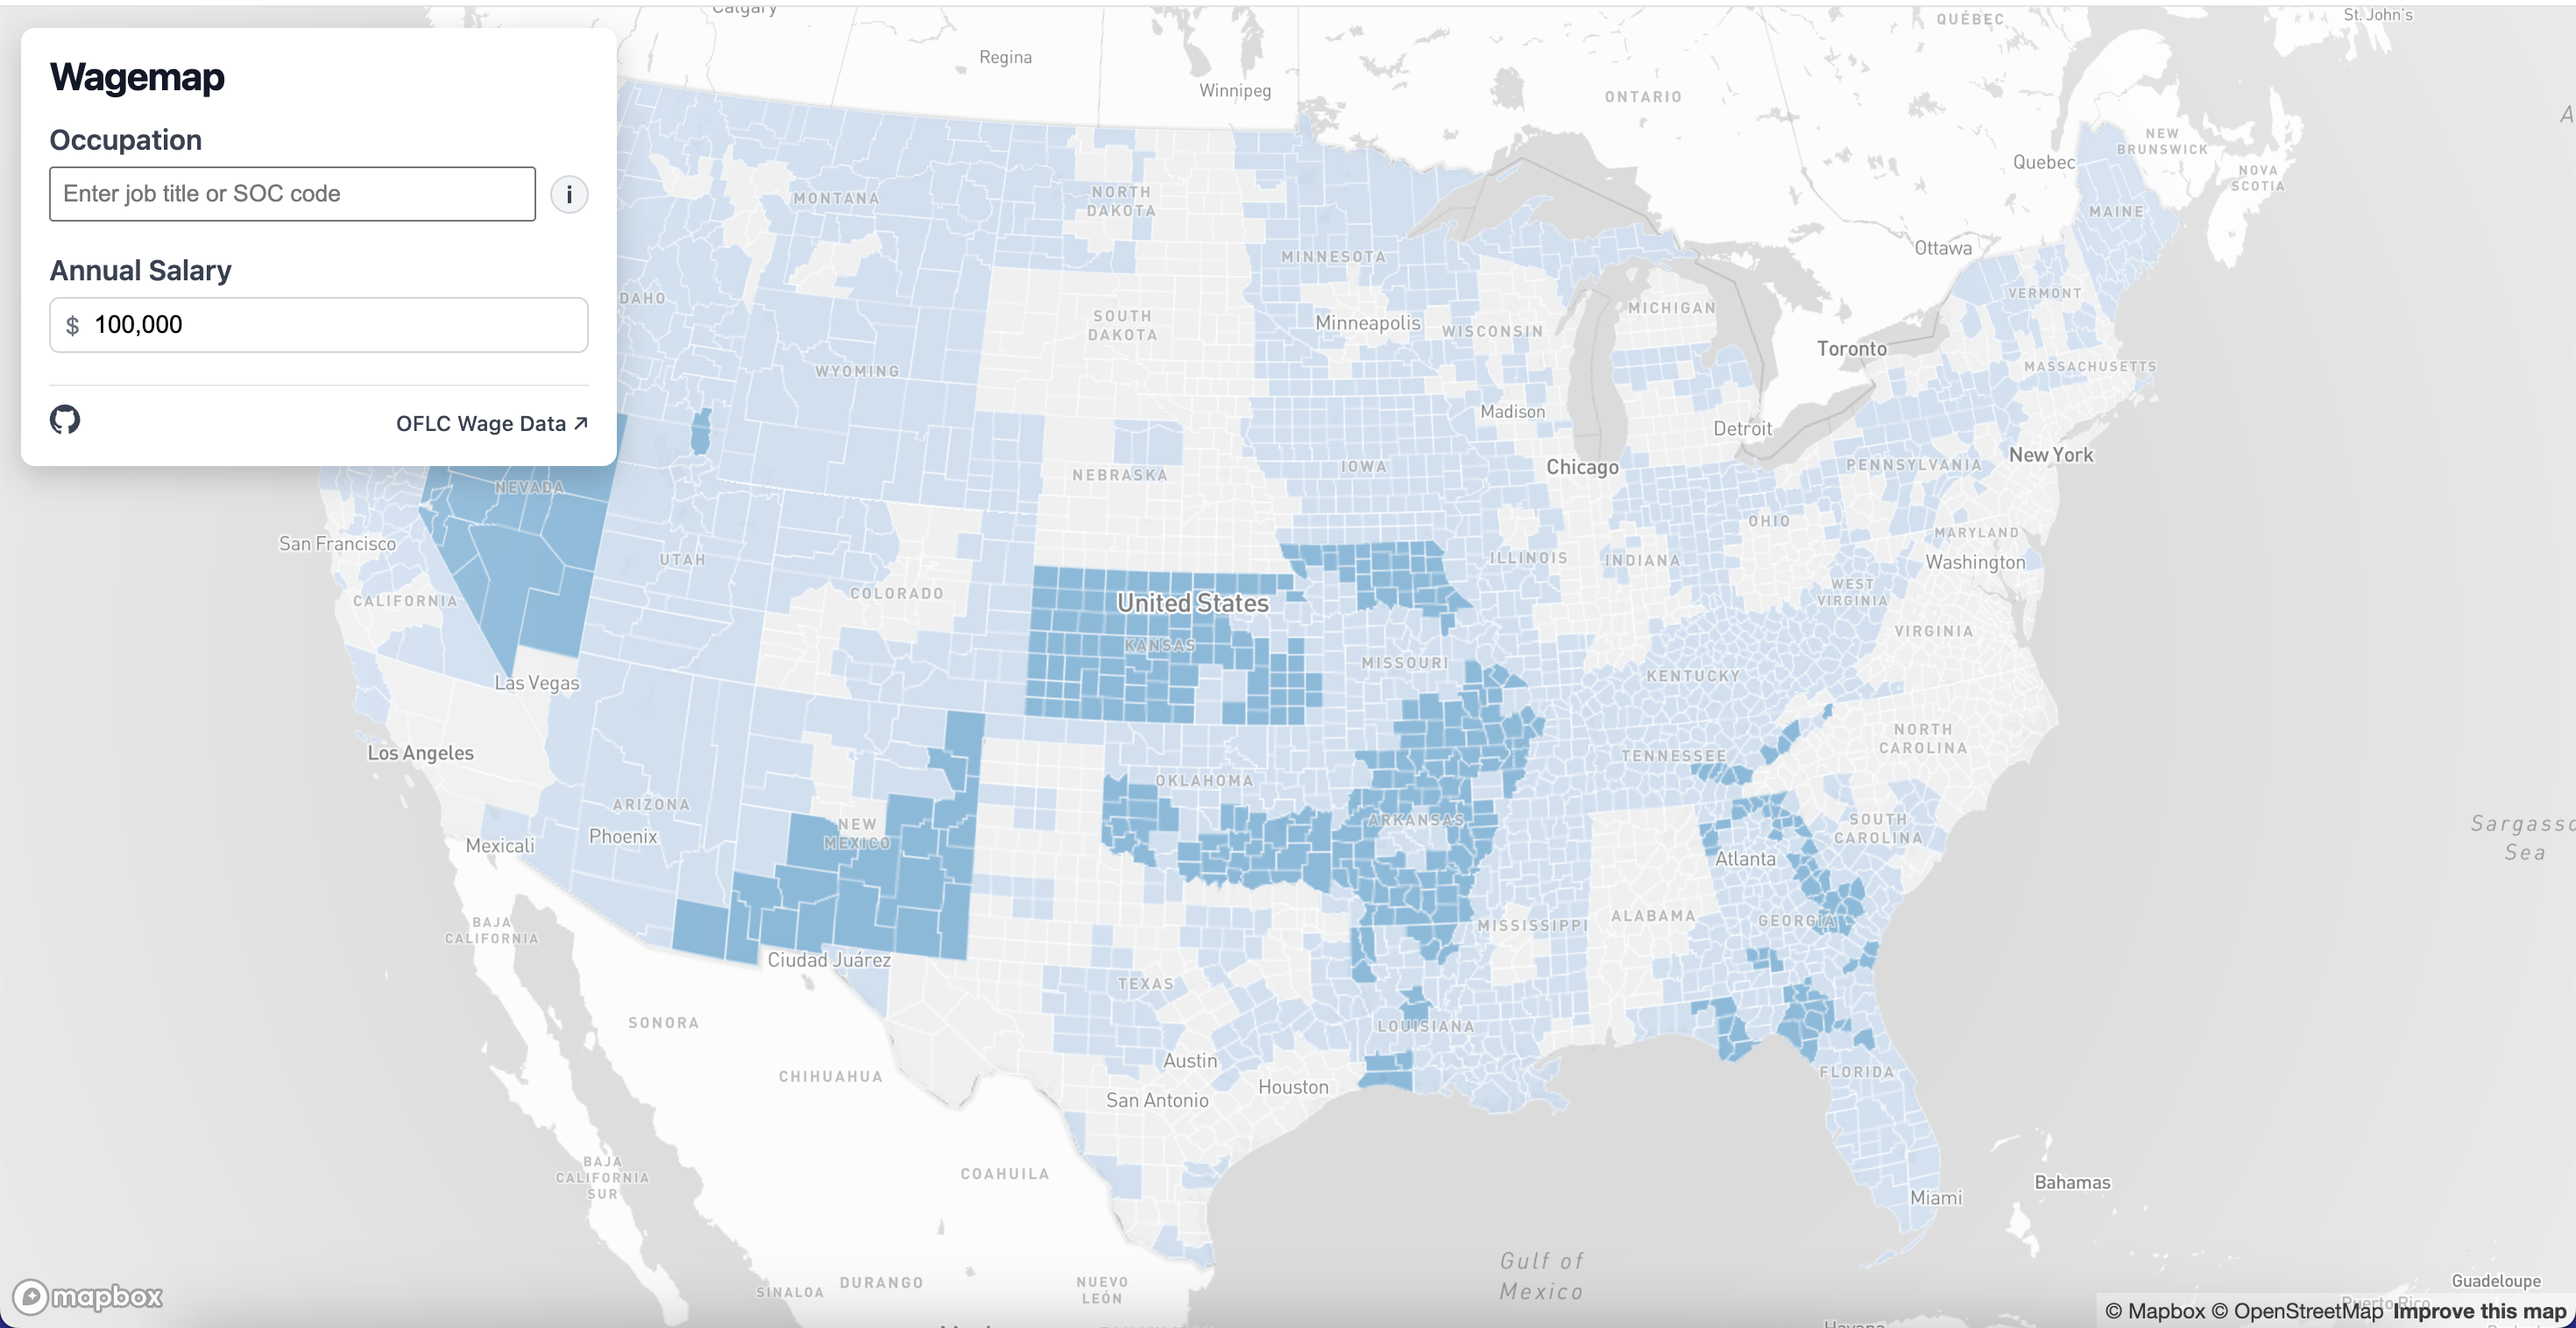
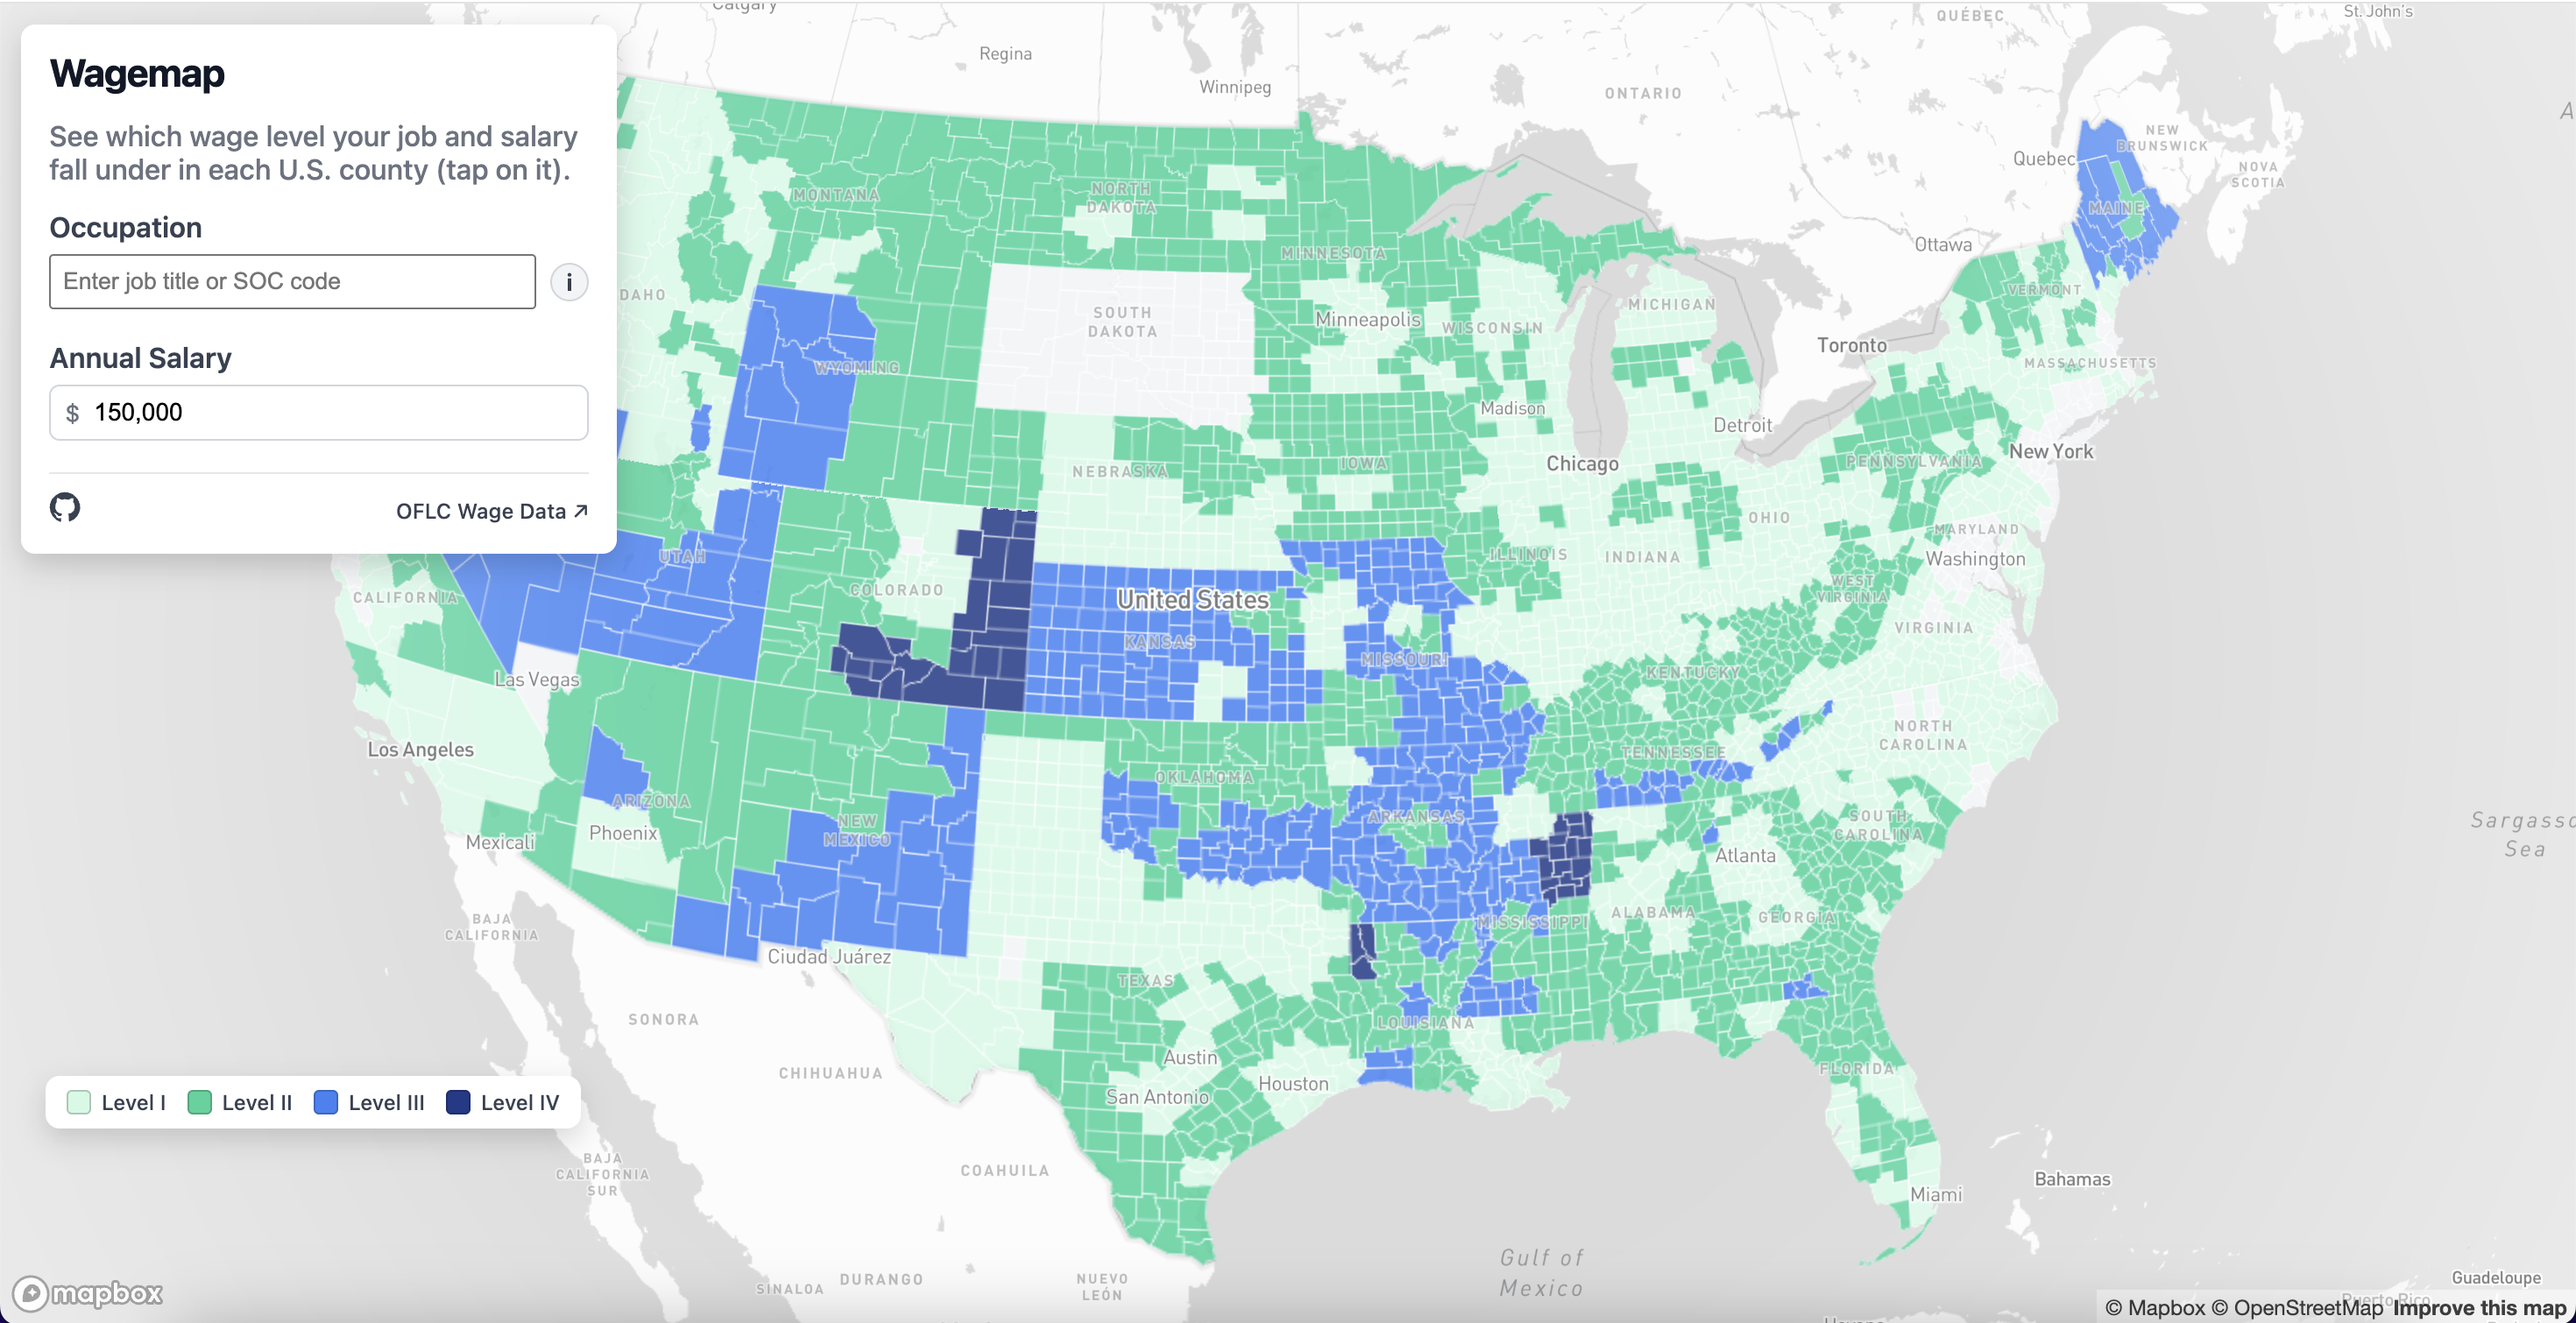
Add colour legend

diff --git a/src/Map.jsx b/src/Map.jsx
@@ -22,12 +22,29 @@ const parseCurrency = (s) => Number(s.replace(/,/g, ""));
 const normalize = (s) =>
   s.toLowerCase().replace(" county", "").replace(/\s+/g, " ").trim();
 
+function LegendItem({ color, label }) {
+  return (
+    <div style={{ display: "flex", alignItems: "center", gap: 6 }}>
+      <div
+        style={{
+          width: 14,
+          height: 14,
+          background: color,
+          borderRadius: 3,
+          border: "1px solid rgba(0,0,0,0.2)",
+        }}
+      />
+      <span>{label}</span>
+    </div>
+  );
+}
+
 export default function Map() {
   const mapRef = useRef(null);
   const countiesRef = useRef(null);
 
   const [soc, setSoc] = useState("11-1011");
-  const [salary, setSalary] = useState(100000);
+  const [salary, setSalary] = useState(150000);
 
   // ---------------- MAP INIT ----------------
   useEffect(() => {
@@ -138,14 +155,14 @@ export default function Map() {
     mapRef.current.setPaintProperty("county-fill", "fill-color", [
       "case",
       ["==", ["get", "level"], 4],
-      "#084594",
+      "#1E3A8A", // Level IV
       ["==", ["get", "level"], 3],
-      "#2171b5",
+      "#3B82F6", // Level III
       ["==", ["get", "level"], 2],
-      "#6baed6",
+      "#34D399", // Level II
       ["==", ["get", "level"], 1],
-      "#c6dbef",
-      "#eeeeee",
+      "#D1FAE5", // Level I
+      "#F3F4F6", // Below Level I / No data
     ]);
   }
 
@@ -154,6 +171,10 @@ export default function Map() {
     <>
       <div className="control-panel">
         <h1 className="title">Wagemap</h1>
+        <h2 className="subtitle">
+          See which wage level your job and salary fall under in each U.S.
+          county (tap on it).
+        </h2>
 
         <div className="section">
           <label className="label">Occupation</label>
@@ -240,6 +261,29 @@ export default function Map() {
           >
             OFLC Wage Data ↗
           </a>
+        </div>
+        <div
+          style={{
+            position: "absolute",
+            zIndex: 1,
+            top: 600, // adjust if needed
+            left: 14,
+            background: "#ffffff",
+            padding: "8px 12px",
+            borderRadius: "8px",
+            boxShadow: "0 6px 16px rgba(0,0,0,0.15)",
+            display: "flex",
+            gap: 12,
+            alignItems: "center",
+            fontSize: 12,
+            fontWeight: 500,
+            color: "#374151",
+          }}
+        >
+          <LegendItem color="#D1FAE5" label="Level I" />
+          <LegendItem color="#34D399" label="Level II" />
+          <LegendItem color="#3B82F6" label="Level III" />
+          <LegendItem color="#1E3A8A" label="Level IV" />
         </div>
       </div>
 

diff --git a/src/Map.css b/src/Map.css
@@ -24,6 +24,13 @@
     letter-spacing: -0.02em;
 }
 
+.subtitle {
+    margin: 0 0 14px;
+    font-size: 16px;
+    font-weight: 500;
+    color: #6b7280;
+}
+
 .section {
     margin-bottom: 18px;
 }
